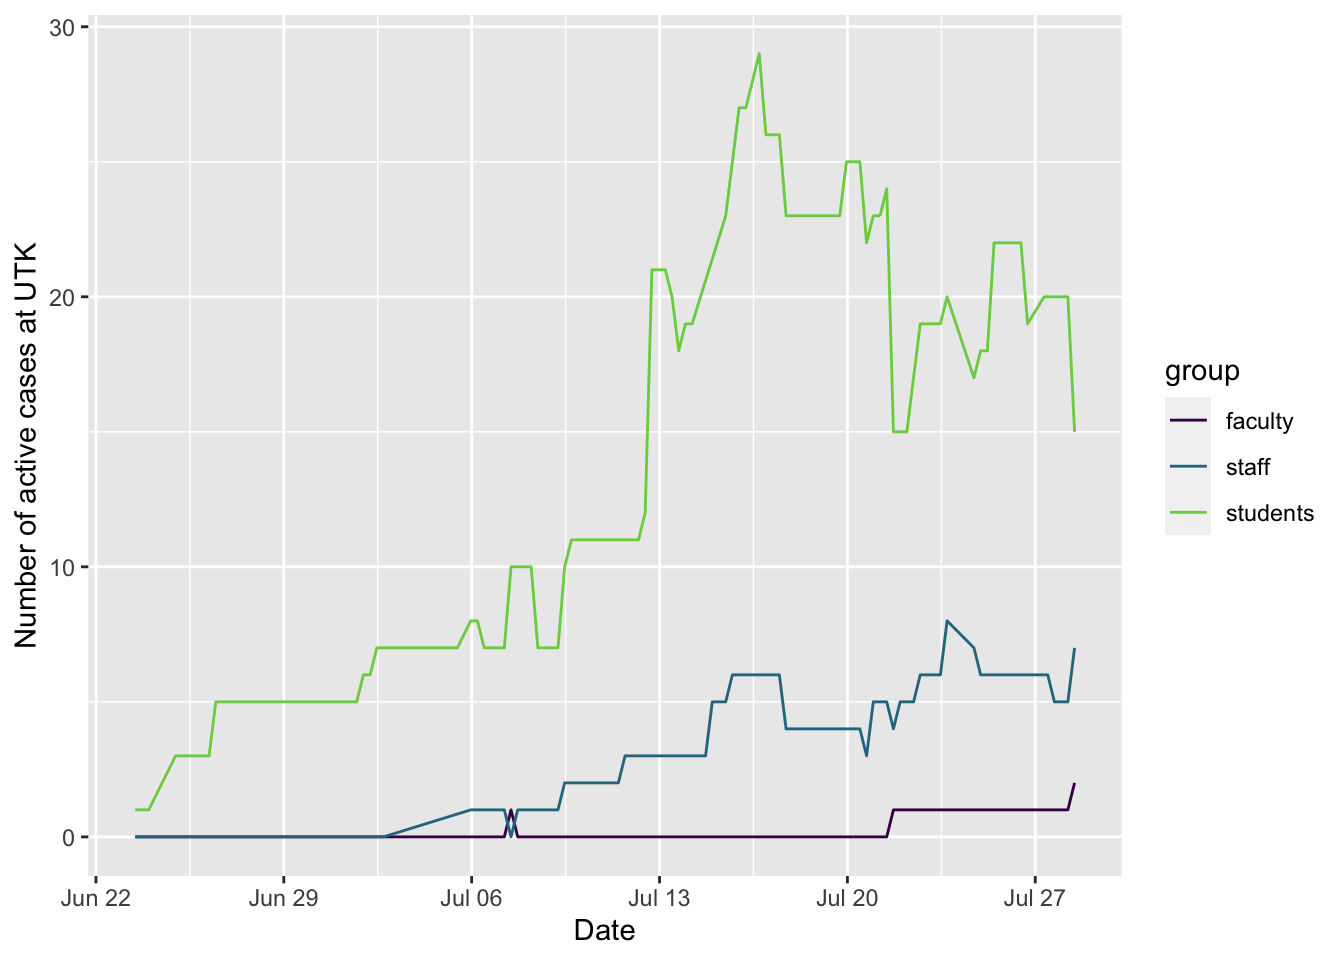
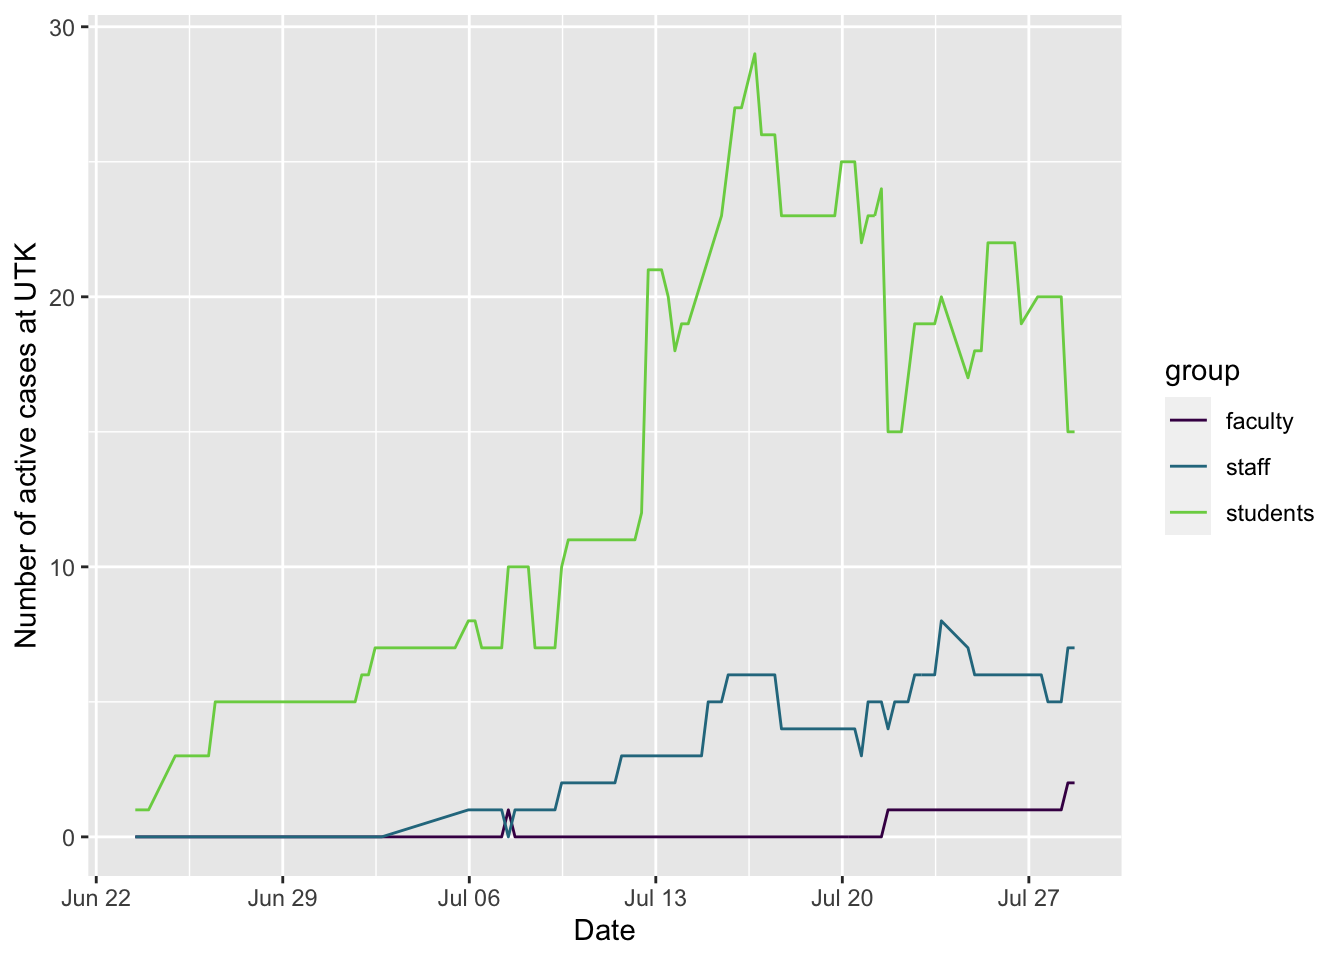
updating site

diff --git a/docs/covid.html b/docs/covid.html
@@ -423,7 +423,7 @@ $(document).ready(function () {
 <li>Info about cases at <a href="#ut">U. of Tennessee, Knoxville</a> (using public information only)</li>
 <li><a href="#webcams">Webcams</a> showing activity at local sites, though not quite at the resolution to point to mask usage or not</li>
 </ul>
-<p>The following plots are created in R using data from <a href="https://covid19datahub.io" class="uri">https://covid19datahub.io</a> (Guidotti, E., Ardia, D., (2020), “COVID-19 Data Hub”, Working paper, doi: 10.13140/RG.2.2.11649.81763), as well as information from Google and the <a href="https://www.tn.gov/health/cedep/ncov/data/downloadable-datasets.html">state of Tennessee dataset page</a> and plotting and analysis using the <code>forecast</code>, <code>ggplot2</code>, <code>reshape2</code>, and <code>dplyr</code> packages. It also uses the <a href="https://github.com/mtna/rds-r">rds-r</a> package from <a href="https://www.richdataservices.com/" class="uri">https://www.richdataservices.com/</a>. Plots created on 2020-07-28 13:45:31. I use <code>ggplot2</code>’s <code>geom_smooth()</code> function for the smoothed regression plots with its default formula, which uses loess smoothing for this many points. This is not based on a model of disease spread or anything similarly sophisticated, just drawing a smooth curve to summarize noisy points (see <a href="https://www.itl.nist.gov/div898/handbook/pmd/section1/pmd144.htm">here</a> for more details).</p>
+<p>The following plots are created in R using data from <a href="https://covid19datahub.io" class="uri">https://covid19datahub.io</a> (Guidotti, E., Ardia, D., (2020), “COVID-19 Data Hub”, Working paper, doi: 10.13140/RG.2.2.11649.81763), as well as information from Google and the <a href="https://www.tn.gov/health/cedep/ncov/data/downloadable-datasets.html">state of Tennessee dataset page</a> and plotting and analysis using the <code>forecast</code>, <code>ggplot2</code>, <code>reshape2</code>, and <code>dplyr</code> packages. It also uses the <a href="https://github.com/mtna/rds-r">rds-r</a> package from <a href="https://www.richdataservices.com/" class="uri">https://www.richdataservices.com/</a>. Plots created on 2020-07-28 17:18:00. I use <code>ggplot2</code>’s <code>geom_smooth()</code> function for the smoothed regression plots with its default formula, which uses loess smoothing for this many points. This is not based on a model of disease spread or anything similarly sophisticated, just drawing a smooth curve to summarize noisy points (see <a href="https://www.itl.nist.gov/div898/handbook/pmd/section1/pmd144.htm">here</a> for more details).</p>
 <h2 id="cases">
 Cases
 </h2>
